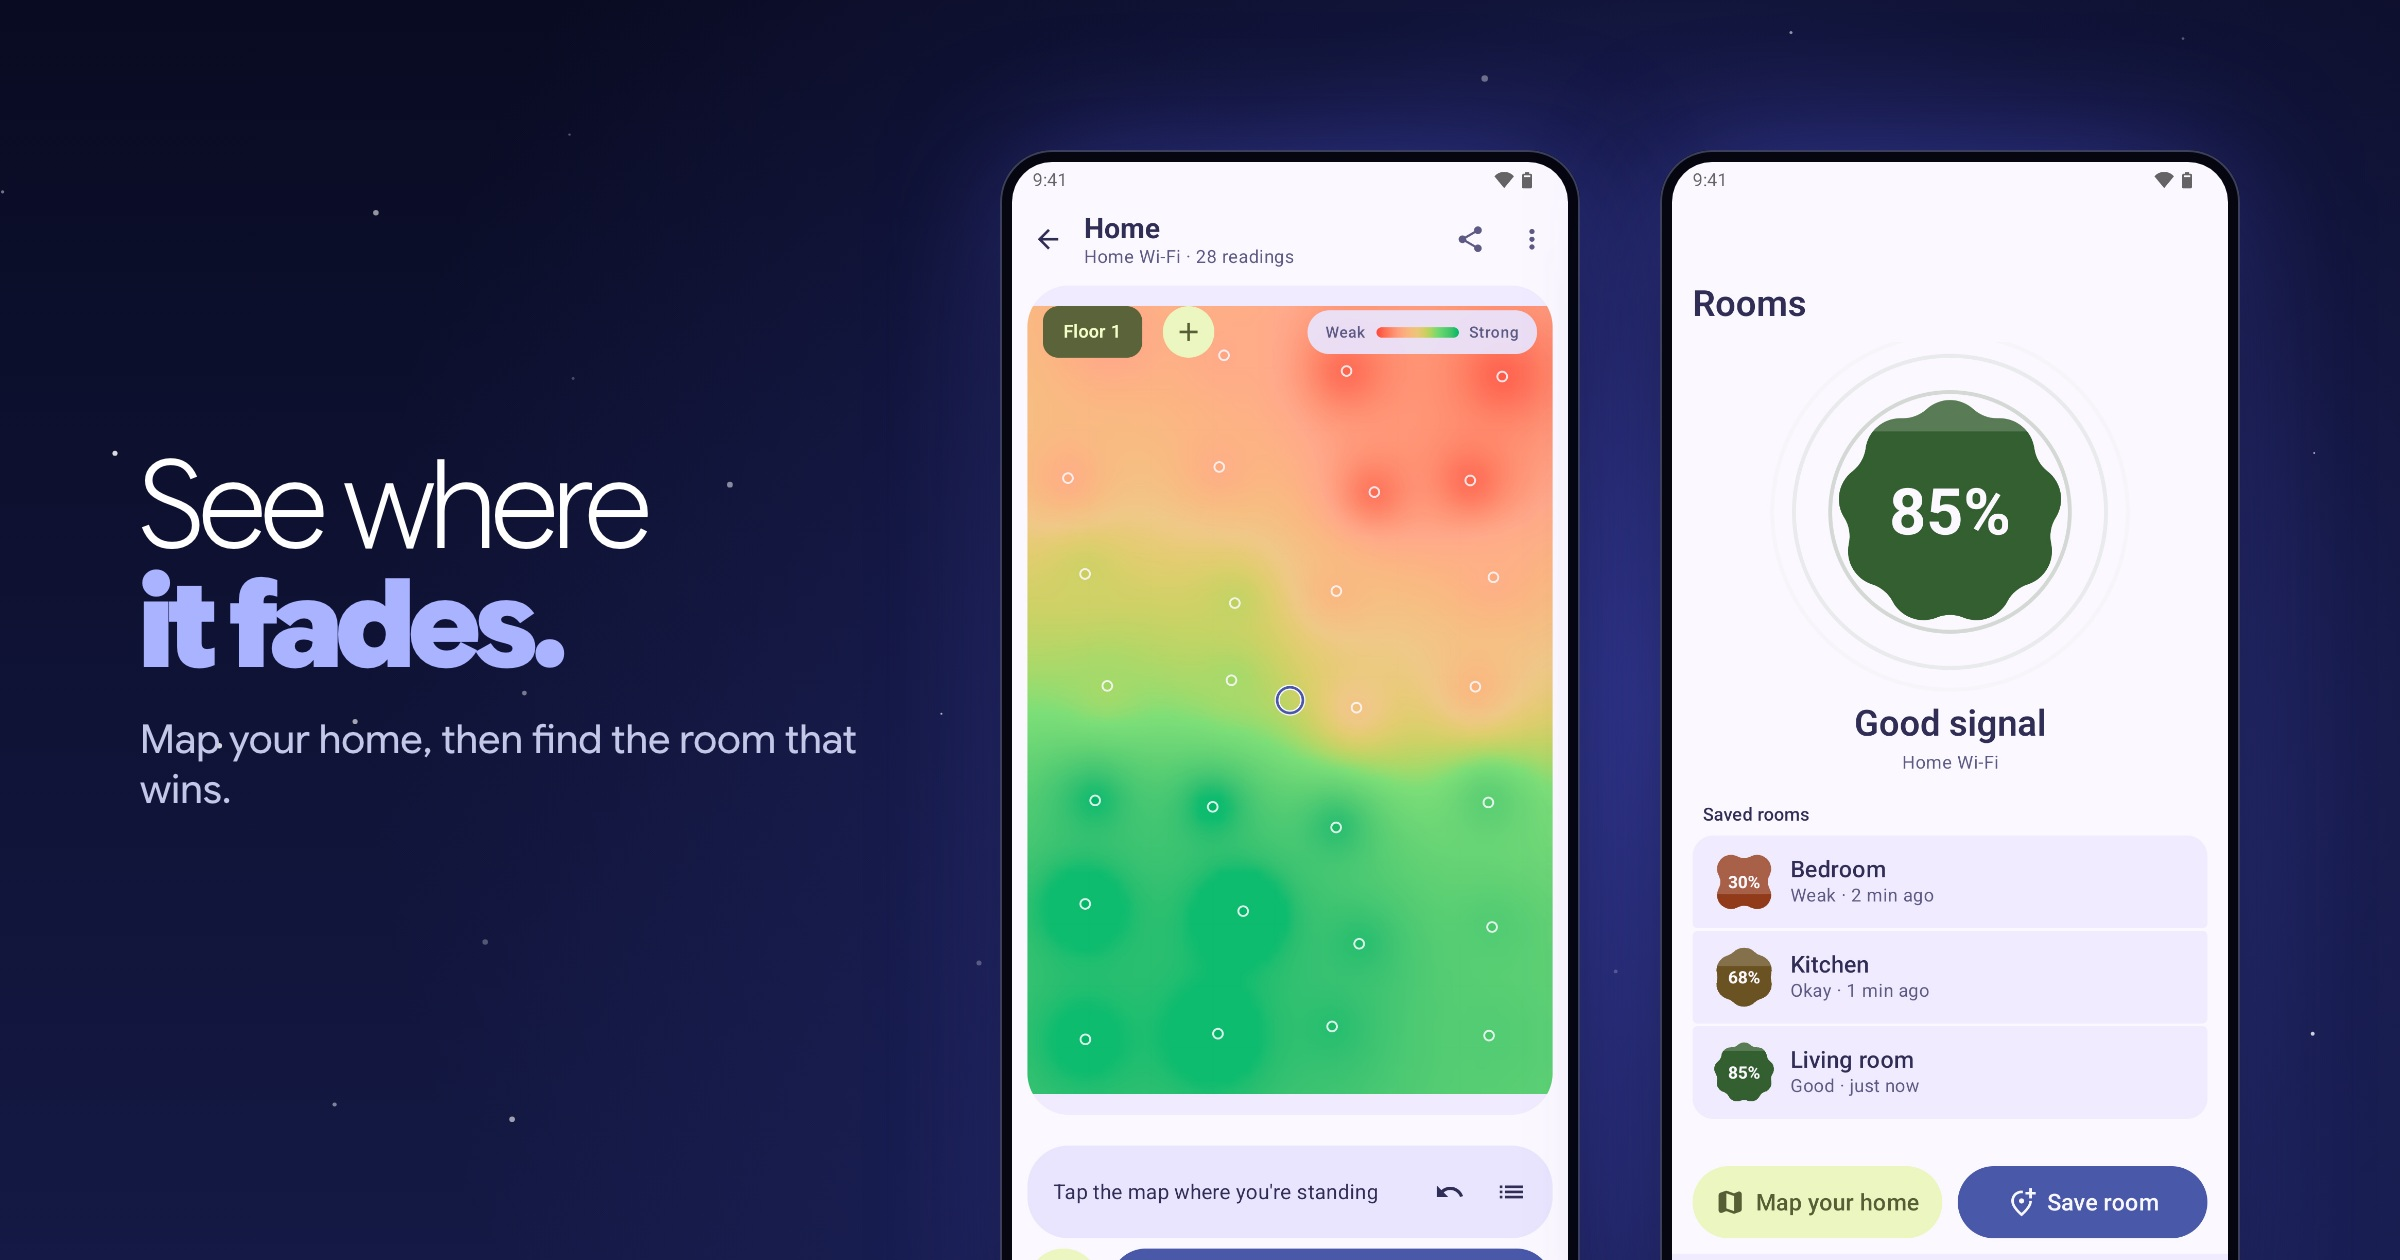
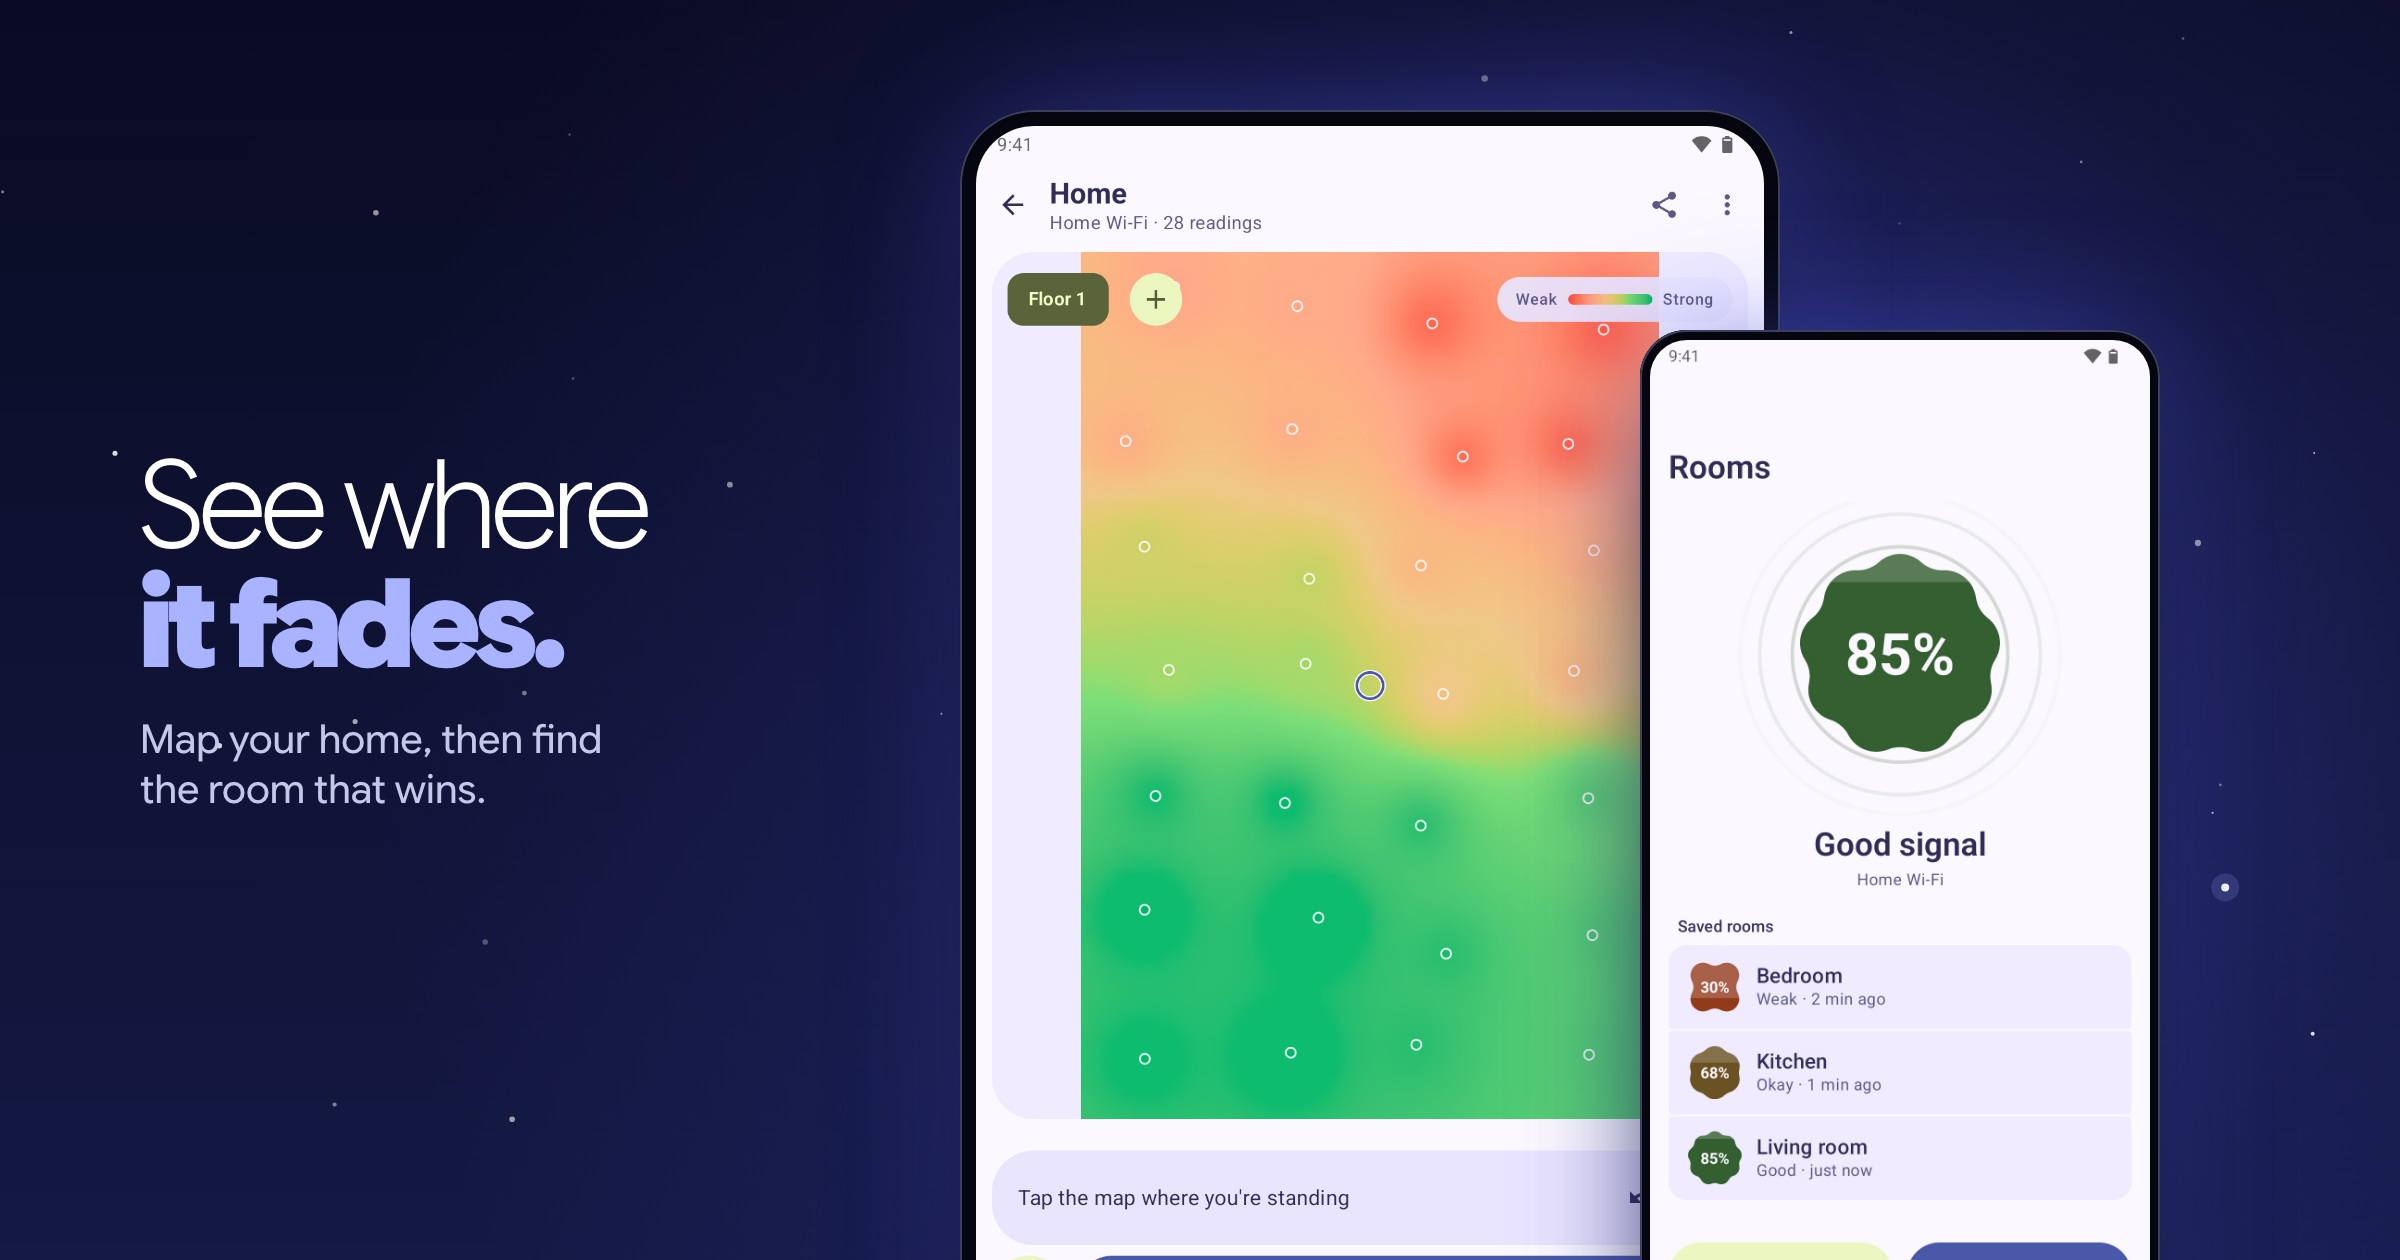
README images with their own device sets: the map on a tablet, the router check in front of devices and dark settings

Changed region(s): [[0.375, 0.0619, 0.9375, 1.0], [0.25, 0.5571, 0.3438, 0.619], [0.0625, 0.619, 0.2188, 0.65]]

diff --git a/store-listing/theme.css b/store-listing/theme.css
@@ -54,12 +54,13 @@ header p{margin:30px 0 0;font-size:40px;line-height:1.25;font-weight:450;color:#
 /* README spread: the headline on the left, the tablet running off the right edge, a phone in front. */
 .readme .spread header{left:140px;right:auto;top:0;bottom:0;width:760px;display:flex;flex-direction:column;justify-content:center}
 .readme .spread h1{font-size:124px}
+.readme .spread header p{white-space:pre-line}
 .readme .spread .tablet{--bezel:18px;--radius:48px;left:1060px;top:180px;width:1600px}
 .readme .spread .phone{--bezel:12px;--radius:60px;left:900px;top:540px;width:420px;z-index:4}
-/* README duo and trio: the same left page, then two or three phones side by side, running off the bottom. */
-.readme .duo .device,.readme .trio .device{--bezel:12px;--radius:58px;top:150px}
-.readme .duo .first{left:1000px;width:580px}
-.readme .duo .second{left:1660px;width:580px}
-.readme .trio .first{left:940px;width:440px}
-.readme .trio .second{left:1430px;width:440px}
-.readme .trio .third{left:1920px;width:440px}
+/* README map set: the floor plan on a portrait tablet, the room comparison on a phone standing in front of it. */
+.readme .mapset .slate{--bezel:16px;--radius:44px;left:960px;top:110px;width:820px}
+.readme .mapset .front{--bezel:12px;--radius:58px;left:1640px;top:330px;width:520px;z-index:4}
+/* README fan: the router check large in front; devices and dark settings smaller and lower behind it. */
+.readme .fan .front{--bezel:13px;--radius:62px;left:1330px;top:140px;width:600px;z-index:4}
+.readme .fan .back-left{--bezel:10px;--radius:48px;left:960px;top:330px;width:460px;z-index:2;filter:brightness(.92)}
+.readme .fan .back-right{--bezel:10px;--radius:48px;left:1850px;top:330px;width:460px;z-index:2;filter:brightness(.95)}
